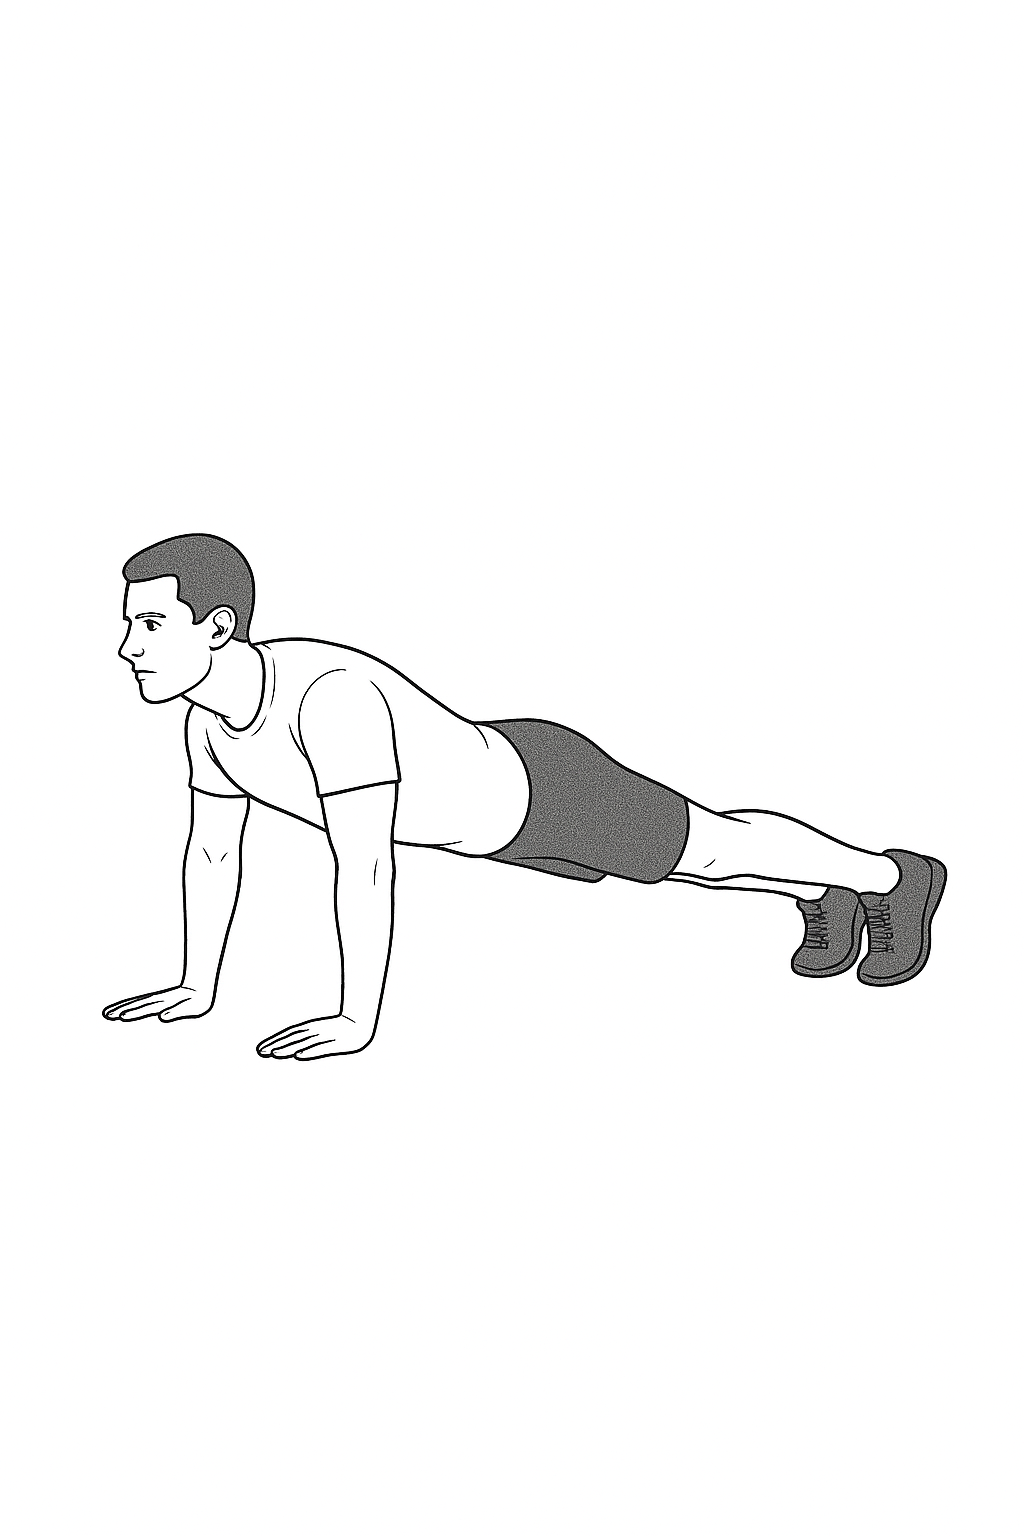
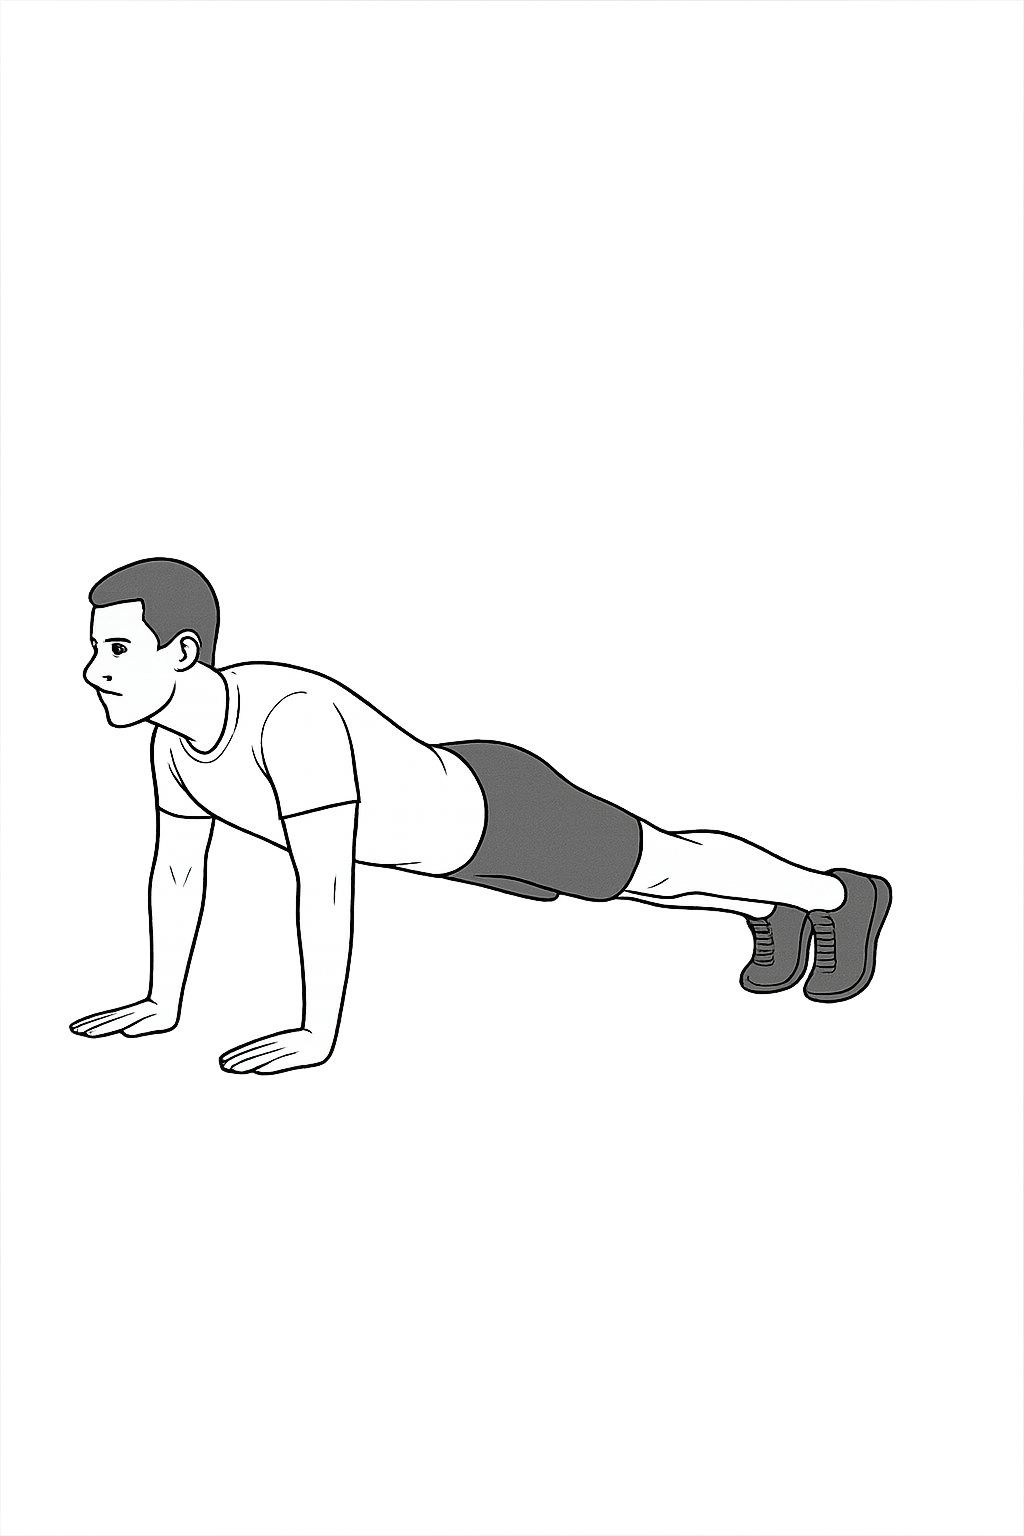
cambios

Changed region(s): [[0.0625, 0.3438, 0.9375, 0.7188]]

diff --git a/ProyectoFinDeCurso/Flyout/userFlyoutPage.xaml.cs b/ProyectoFinDeCurso/Flyout/userFlyoutPage.xaml.cs
@@ -8,21 +8,33 @@ namespace ProyectoFinDeCurso.Flyout;
 public partial class userFlyoutPage : FlyoutPage
 {
     public DbService _dbService;
-    private userTypeEnum _userType;
+    private static userTypeEnum _userType;
     public userFlyoutPage(DbService dbService,userTypeEnum userType)
 	{
-		InitializeComponent();
-        _dbService = dbService;
-        _userType = userType;
-        verificationUserType(userType);
-
-    }
-    public userFlyoutPage(DbService dbService)
-    {
+        
         InitializeComponent();
         _dbService = dbService;
-        
+        _userType = userType;
+        verificationUserType(_userType);
 
+    }
+    public userFlyoutPage(DbService dbService, string userId)
+    {
+       
+        InitializeComponent();
+        _dbService = dbService;
+        _ = InitializeAsync(userId);
+    }
+    private async Task InitializeAsync(string userId)
+    {
+        var user = await _dbService.GetUserById(int.Parse(userId));
+
+        if (user != null)
+        {
+            _userType = user.userType;
+        }
+
+        verificationUserType(_userType);
     }
     private async void LogoutButton(object sender, EventArgs e)
     {

diff --git a/ProyectoFinDeCurso/ViewModels/ExerciseFilterViewModel.cs b/ProyectoFinDeCurso/ViewModels/ExerciseFilterViewModel.cs
@@ -13,7 +13,7 @@ namespace ProyectoFinDeCurso.ViewModels
         private readonly DbService _dbService;
         private string _searchText = string.Empty;
         private Brush _auraColor;
-        private userTypeEnum _userType;
+        private static userTypeEnum _userType;
         // Lista completa de ejercicios
         public ObservableCollection<Exercise> Exercises { get; set; } = new();
 
@@ -64,6 +64,7 @@ namespace ProyectoFinDeCurso.ViewModels
         public int ExercisesCount => Exercises?.Count ?? 0;
         public ExerciseFilterViewModel(DbService dbService, userTypeEnum userType)
         {
+            _userType = userTypeEnum.nothing;
             _dbService = dbService;
 
             _userType = userType;
@@ -84,7 +85,7 @@ namespace ProyectoFinDeCurso.ViewModels
                 {
                     ex.IsAdmin = 1;
                 }
-                else if(ex.typeUser.Equals(_userType) && _userType.Equals(userTypeEnum.user))
+                else if(!ex.typeUser.Equals(_userType) && _userType.Equals(userTypeEnum.user))
                 {
                     ex.IsAdmin = 0;
                 }

diff --git a/ProyectoFinDeCurso/App.xaml.cs b/ProyectoFinDeCurso/App.xaml.cs
@@ -15,14 +15,10 @@ namespace ProyectoFinDeCurso
         {
             try { 
                 var userId = await SecureStorage.GetAsync("user_id");
-                
-                if (!string.IsNullOrEmpty(userId)) 
+
+                if (!string.IsNullOrEmpty(userId))
                 {
-                    if (Application.Current != null)
-                    {
-                        Application.Current.MainPage = new ProyectoFinDeCurso.Flyout.userFlyoutPage(new DbService()); //Navega hacia la página Home, permitiendo no volver a la página anterior
-                    }
-                    
+                    MainPage = new ProyectoFinDeCurso.Flyout.userFlyoutPage(new DbService(),userId);
                 }
                 else
                 {

diff --git a/ProyectoFinDeCurso/Pages/Main/exercisePage.xaml.cs b/ProyectoFinDeCurso/Pages/Main/exercisePage.xaml.cs
@@ -16,12 +16,15 @@ public partial class exercisePage : ContentPage
 
     private readonly DbService _dbService;
     private ExerciseFilterViewModel _filter;
+    private static userTypeEnum _userType;
     public exercisePage(DbService dbService, userTypeEnum userType)
     {
+        _userType = userTypeEnum.nothing;
+        _userType = userType;
         InitializeComponent();
         _dbService = dbService;
         // Solo asignamos el BindingContext, no llamamos OnAppearing manualmente
-        _filter = new ExerciseFilterViewModel(_dbService,userType);
+        _filter = new ExerciseFilterViewModel(_dbService,_userType);
         BindingContext = _filter;
 
     }

diff --git a/ProyectoFinDeCurso/Services/DbService.cs b/ProyectoFinDeCurso/Services/DbService.cs
@@ -21,7 +21,6 @@ namespace ProyectoFinDeCurso.Services
             await _connection.CreateTableAsync<Exercise>();
             await _connection.CreateTableAsync<Routines>();
             await _connection.CreateTableAsync<RoutinesExercises>();
-            await _connection.CreateTableAsync<SetsAndRepetitions>();
         }
         public async Task<List<User>> GetUsers() => await _connection.Table<User>().ToListAsync(); //obtiene todos los usuarios
 
